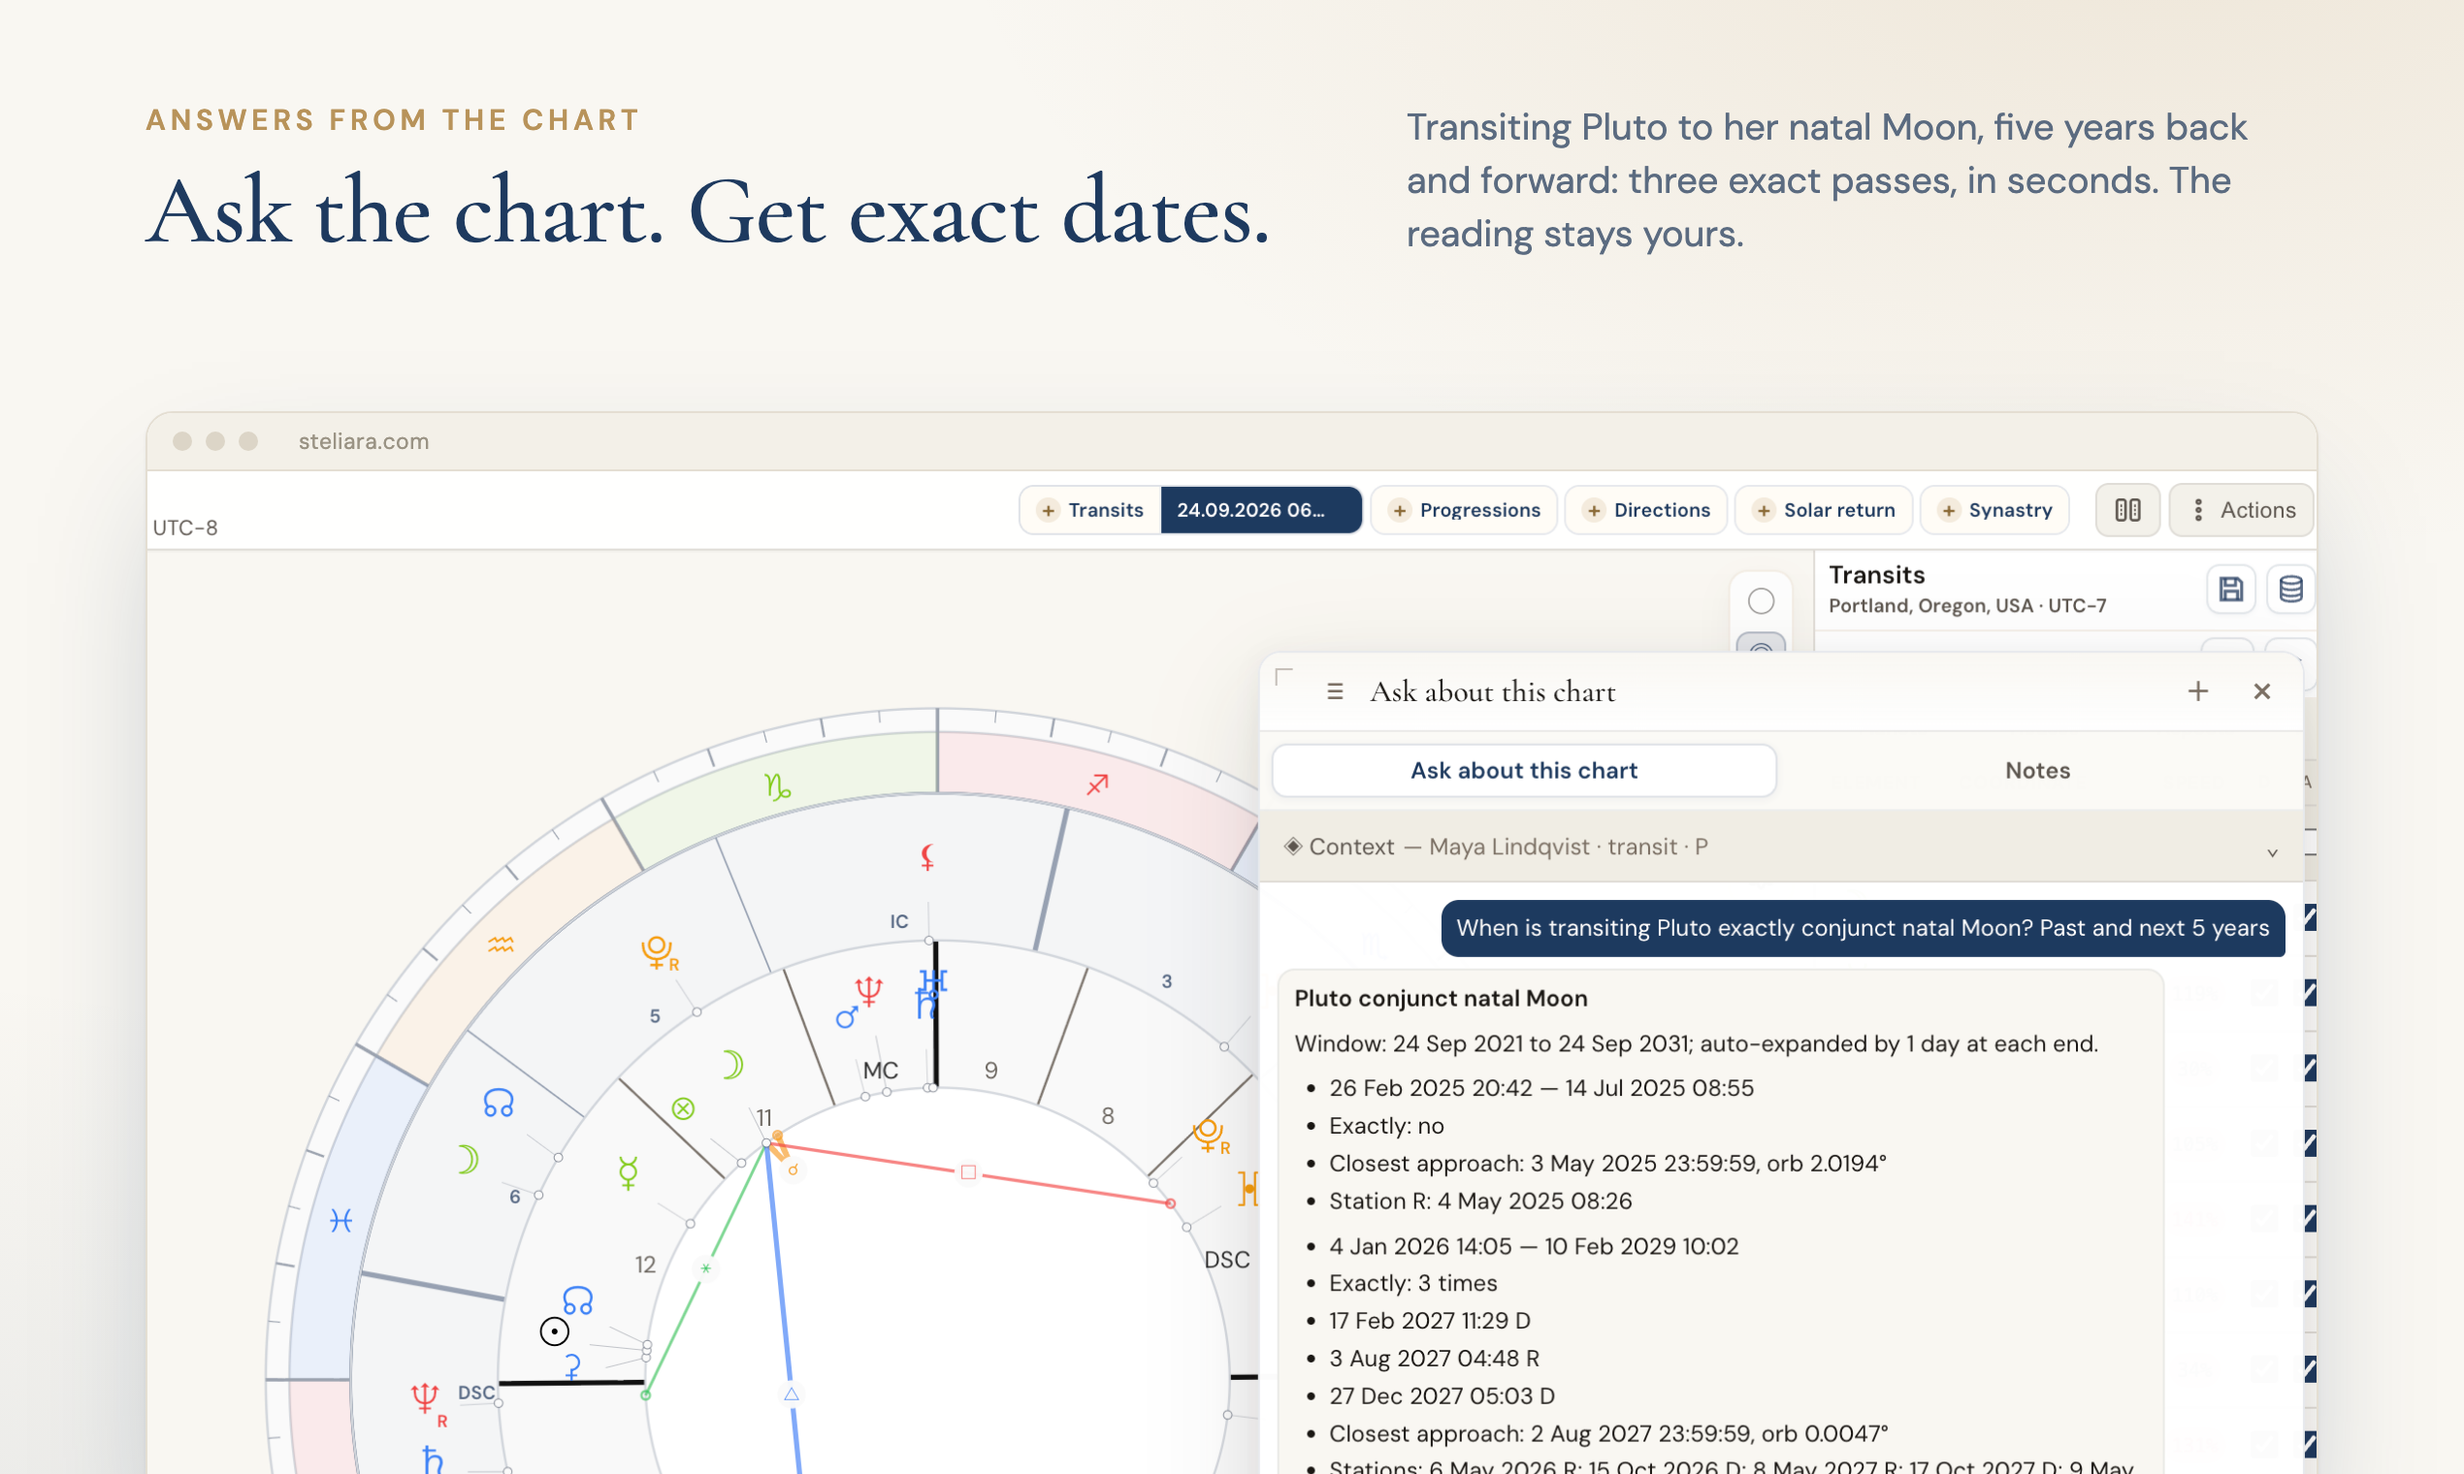
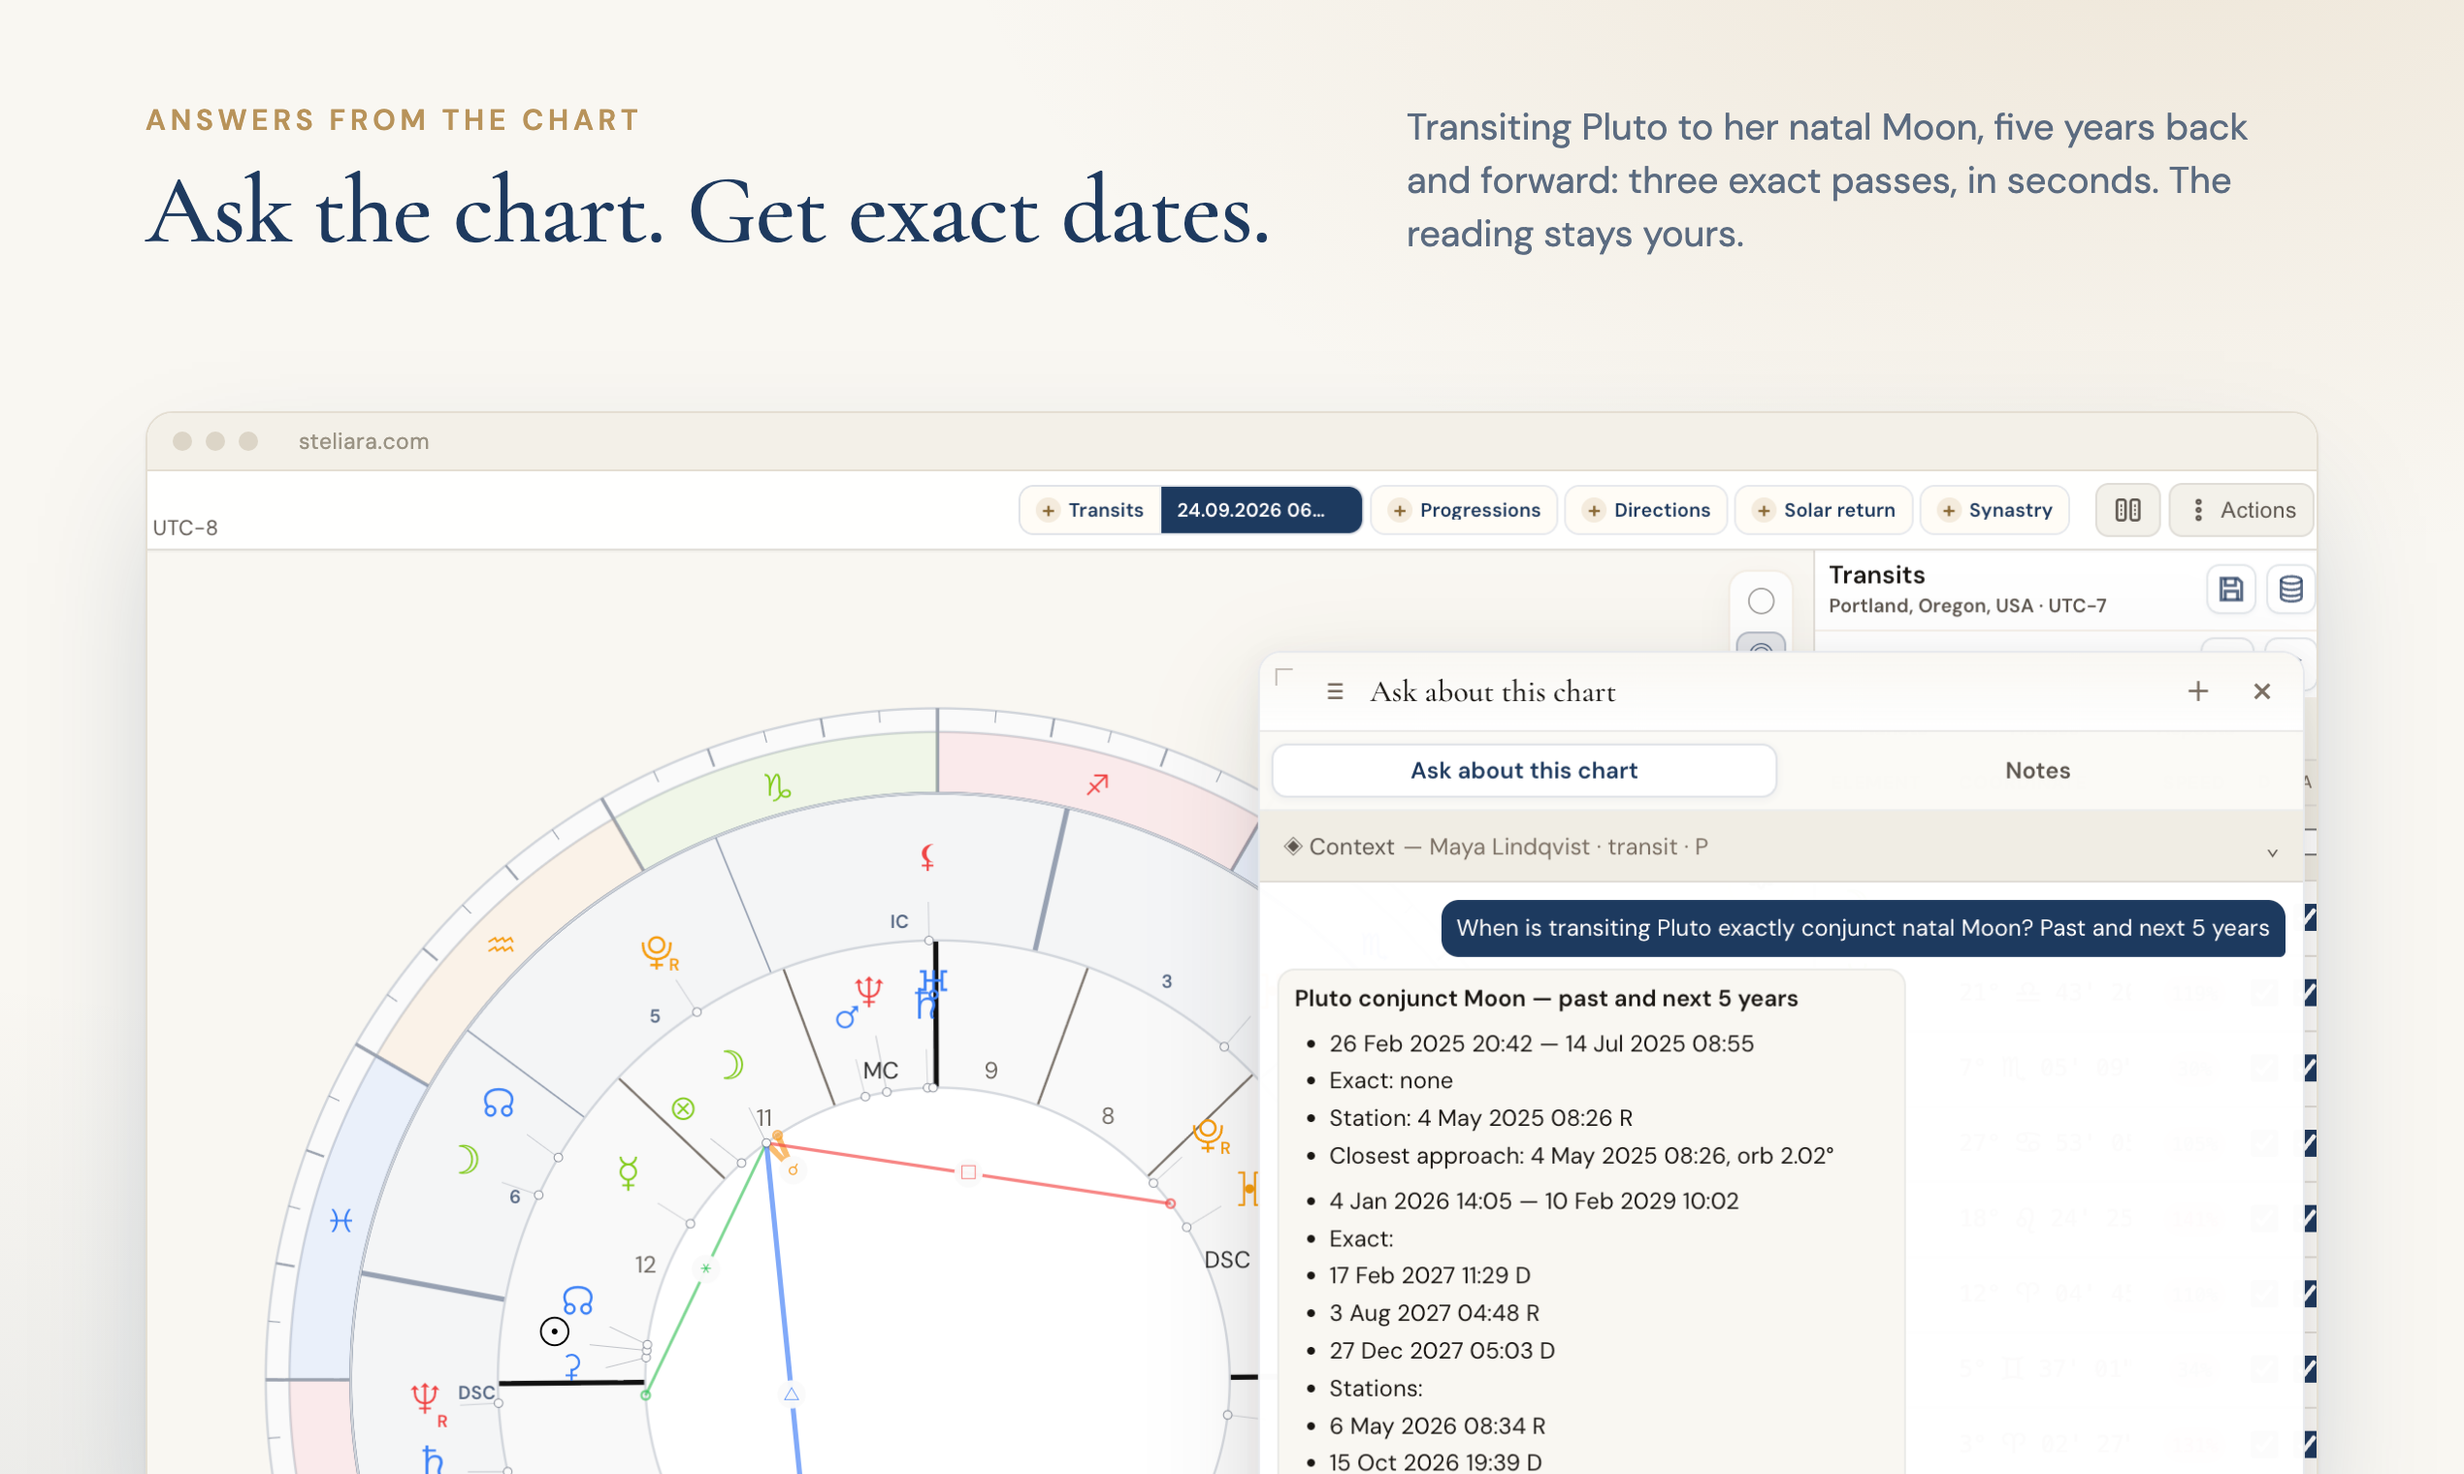
docs(marketing): recapture PH slide 3 with clean assistant answer

Changed region(s): [[0.5287, 0.6493, 0.8709, 1.0]]

diff --git a/docs/marketing/product-hunt/launch-kit.md b/docs/marketing/product-hunt/launch-kit.md
@@ -72,7 +72,7 @@ Studio — нужно решить, что верно. Слайды 2–4 пер
 |---|---|---|---|
 | 1 | `gallery/01-workspace.png` | Рабочий экран: натал + транзиты | готово |
 | 2 | `gallery/02-profile.png` | Профиль человека: карты, заметки, контакт, партнёр | готово (переснято на проде после фиксов) |
-| 3 | `gallery/03-assistant.png` | Ответ из данных карты: Плутон по Луне, 3 точных прохода | готово (переснято на проде; `23:59:59` в closest approach уйдёт после серверного форматирования времени) |
+| 3 | `gallery/03-assistant.png` | Ответ из данных карты: Плутон по Луне, 3 точных прохода | готово (переснято на проде после фиксов форматирования времени и подписей) |
 | 4 | *consultation (нет)* | Звонок → запись → расшифровка → краткое содержание | **снять по разделу 6 и поставить на место №2** |
 | 5 | `gallery/04-history.png` | История сессий в профиле | готово |
 | 6 | `gallery/05-timeline.png` | Год транзитов на одном экране | готово |
